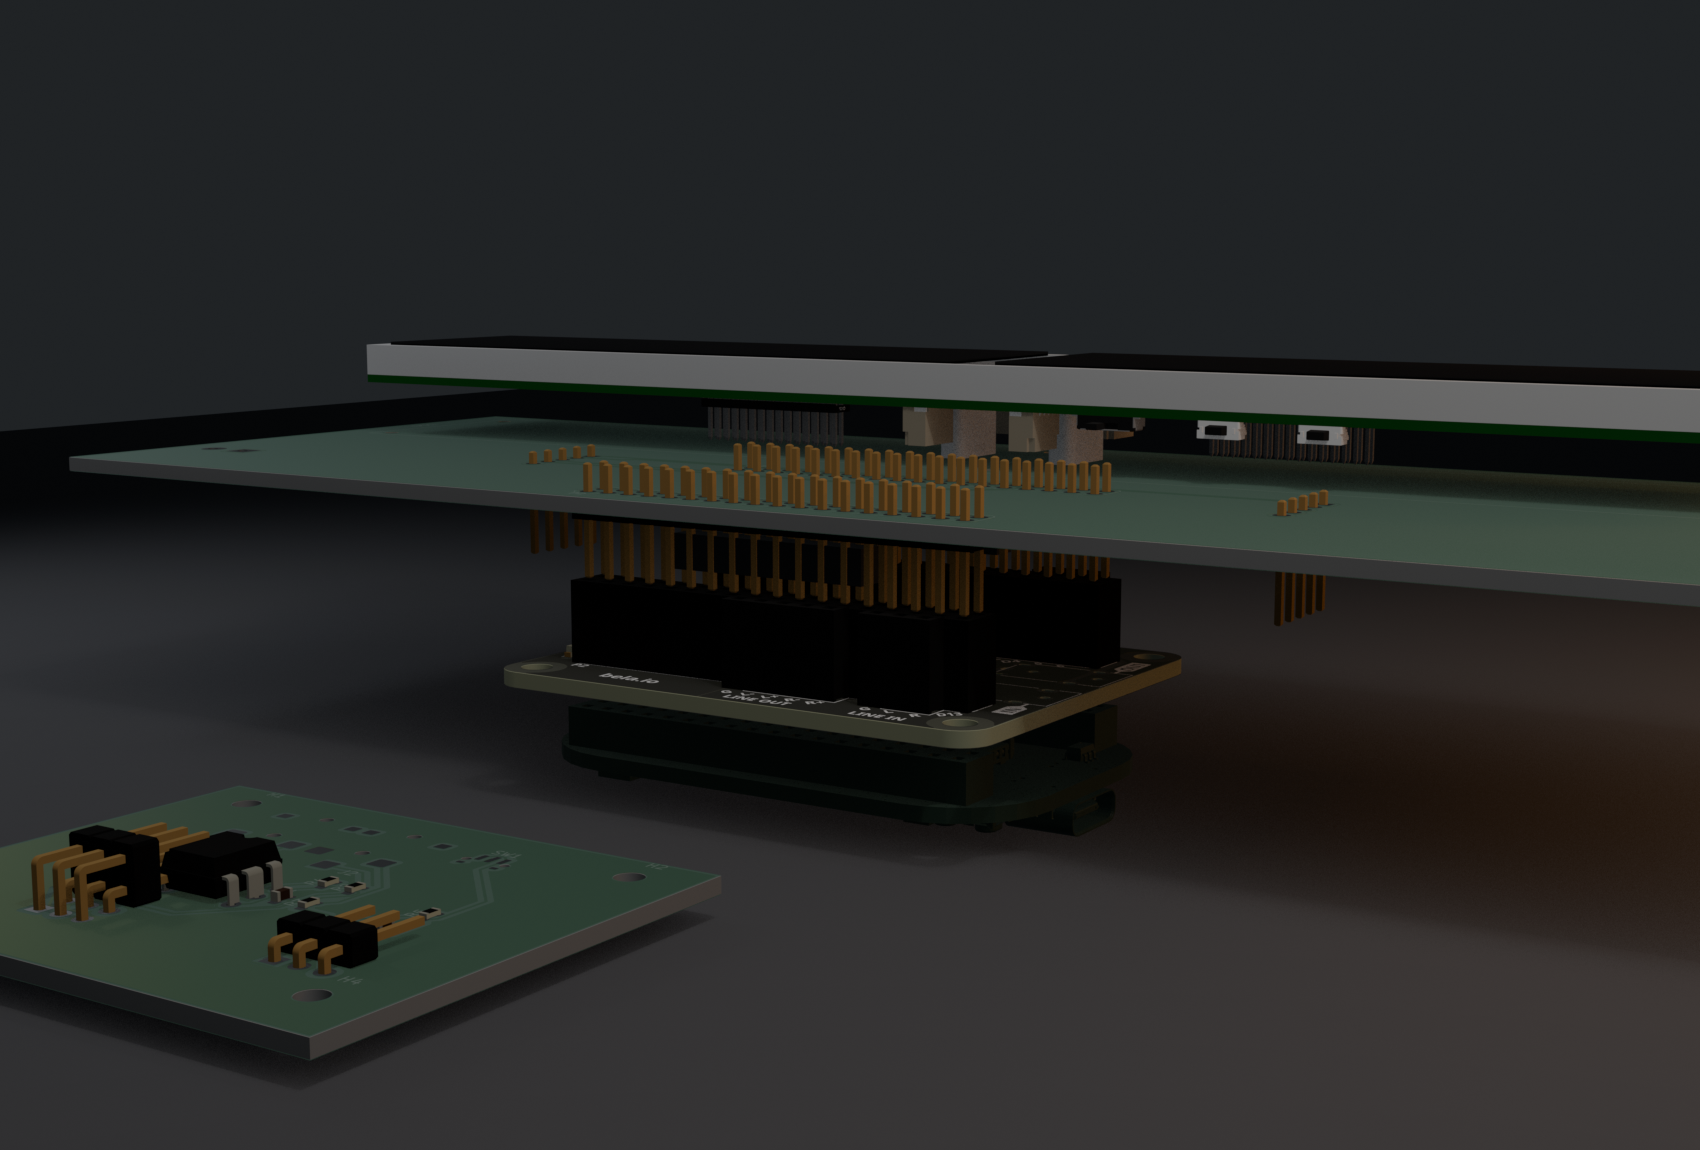
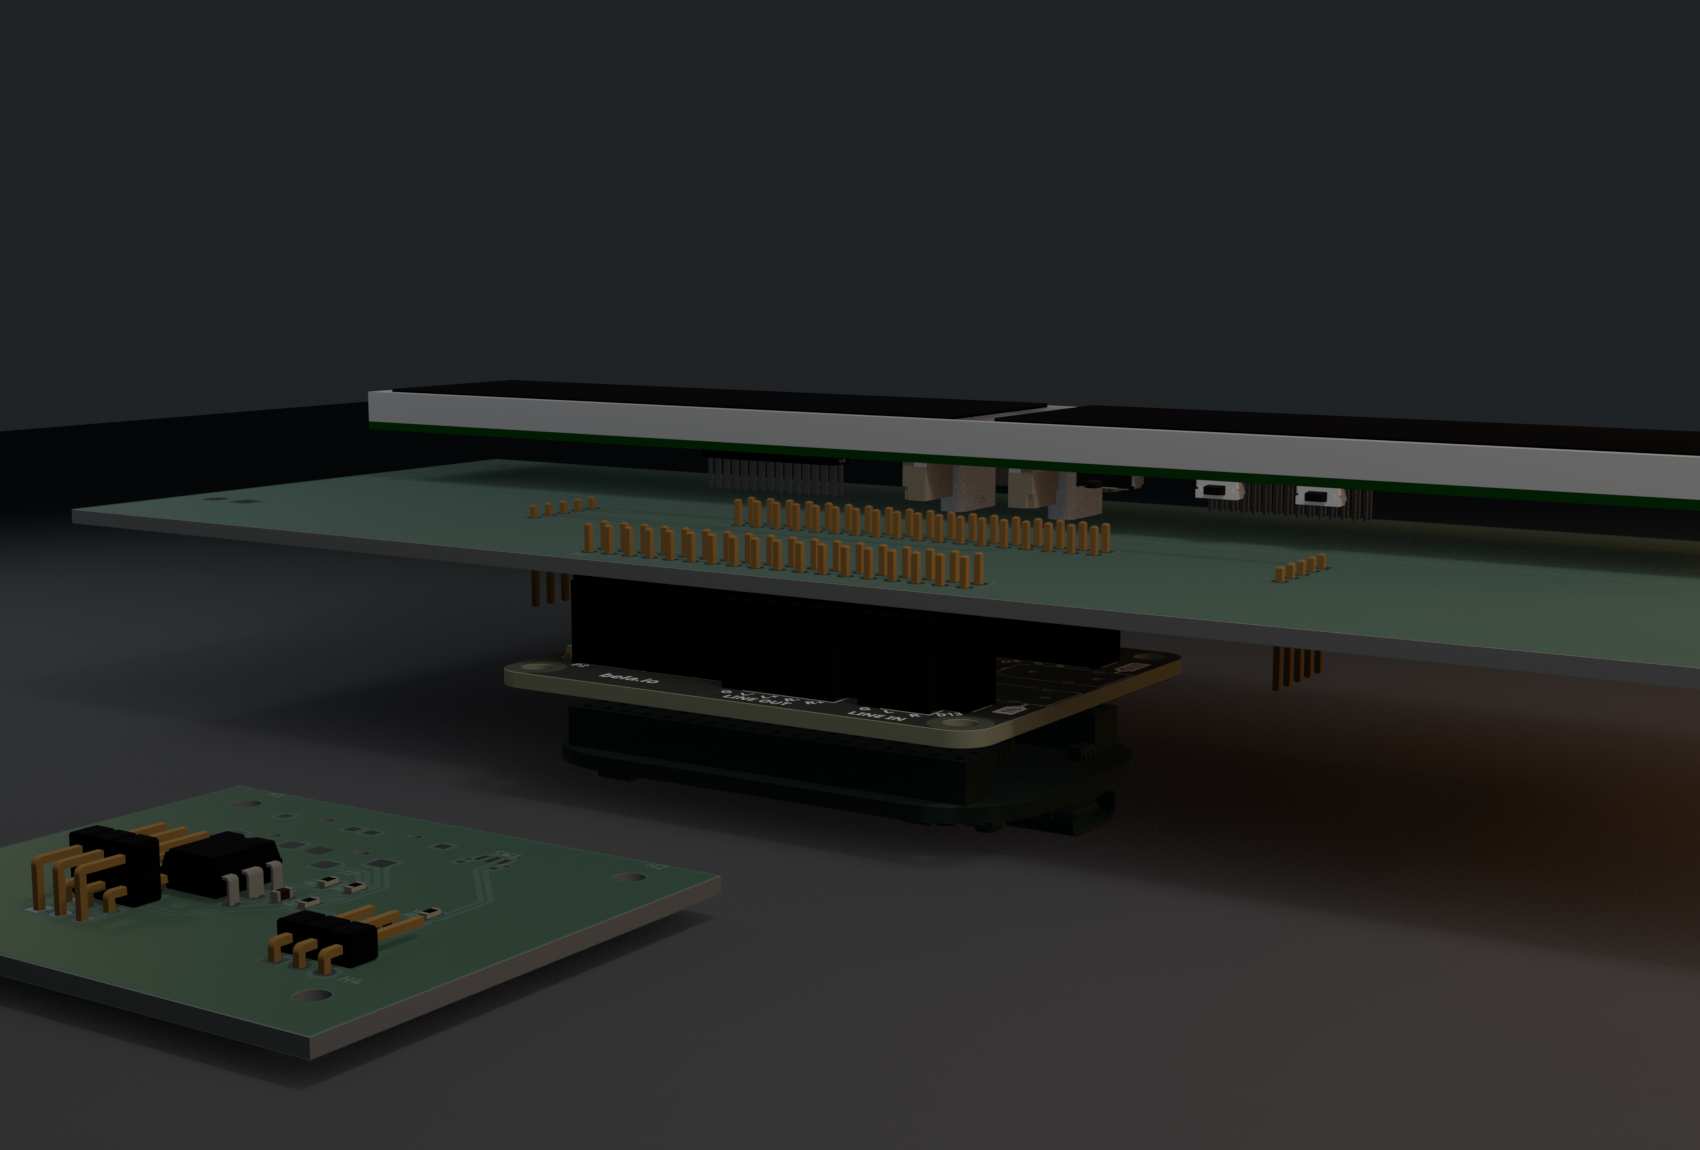
display carrier: seat the male header fully into the sandwich - real stack height ~36.2mm
Pushed the carrier's 2x18 male pins fully down into the sandwich's female connector
instead of just resting them on top: the carrier drops 6mm until its PCB clears the
Bela's tallest component - the LINE IN/OUT audio jacks at 21.8mm - by 1mm, with the
male pins ~6mm into the female. That's the compressed real height: ~36.19mm base to
display glass (was ~42.2mm un-inserted). The audio-jack height (21.8mm) is the floor;
lower/relocated jacks would compress it further. README + ensemble renders updated.

Changed region(s): [[0.0312, 0.2739, 1.0, 0.6087]]

diff --git a/bela project/display carrier/README.md b/bela project/display carrier/README.md
@@ -25,15 +25,18 @@ ribbon satellite in front.
 
 Board ≈ **184 × 73 mm**, 2-layer, AISLER rules.
 
-## Assembled stack height (fully seated)
-Measured from the factory 3D models with the 2×18 male header (carrier) fully mated into
-a female socket on the sandwich top: **total PCB-stack height ≈ 42.2 mm** (device base → display glass).
+## Assembled stack height (male pins fully seated)
+Measured from the factory 3D models with the carrier's 2×18 male header pushed **fully** into
+the sandwich's female connector: **total PCB-stack height ≈ 36.2 mm** (device base → display glass).
 - PocketBeagle 2 (PCB + headers): 0 → 8.7 mm
-- Bela Gem (mated cape, PCB 11.7–13.3): jacks/connectors up to 21.8 mm
-- Bela→carrier 2×18 male+female (fully seated, ~7 mm): carrier PCB 28.9–30.5 mm
-- T-Display module → glass top: **42.24 mm**
+- Bela Gem (mated cape, PCB 11.7–13.3): **audio jacks up to 21.8 mm ← the limiting component**
+- Carrier PCB: 22.8 → 24.4 mm (1 mm above the Bela jacks; male pins ~6 mm into the female)
+- T-Display module → glass top: **36.19 mm**
 
-Add the 1 mm aluminium enclosure + top/bottom clearances (~3–5 mm) for the external height.
+**The height floor is the Bela's LINE IN/OUT jacks (21.8 mm)** — the carrier can't sit lower
+without hitting them, so the male pins can only insert as far as that clearance allows. Lower-profile
+or relocated jacks would let the stack compress further. Add the 1 mm aluminium enclosure +
+top/bottom clearances (~3–5 mm) for the external height (~40–41 mm).
 
 ## Notes / to refine
 - The `TDisplayS3Long` footprint's **mounting-hole positions are estimates** + the active-